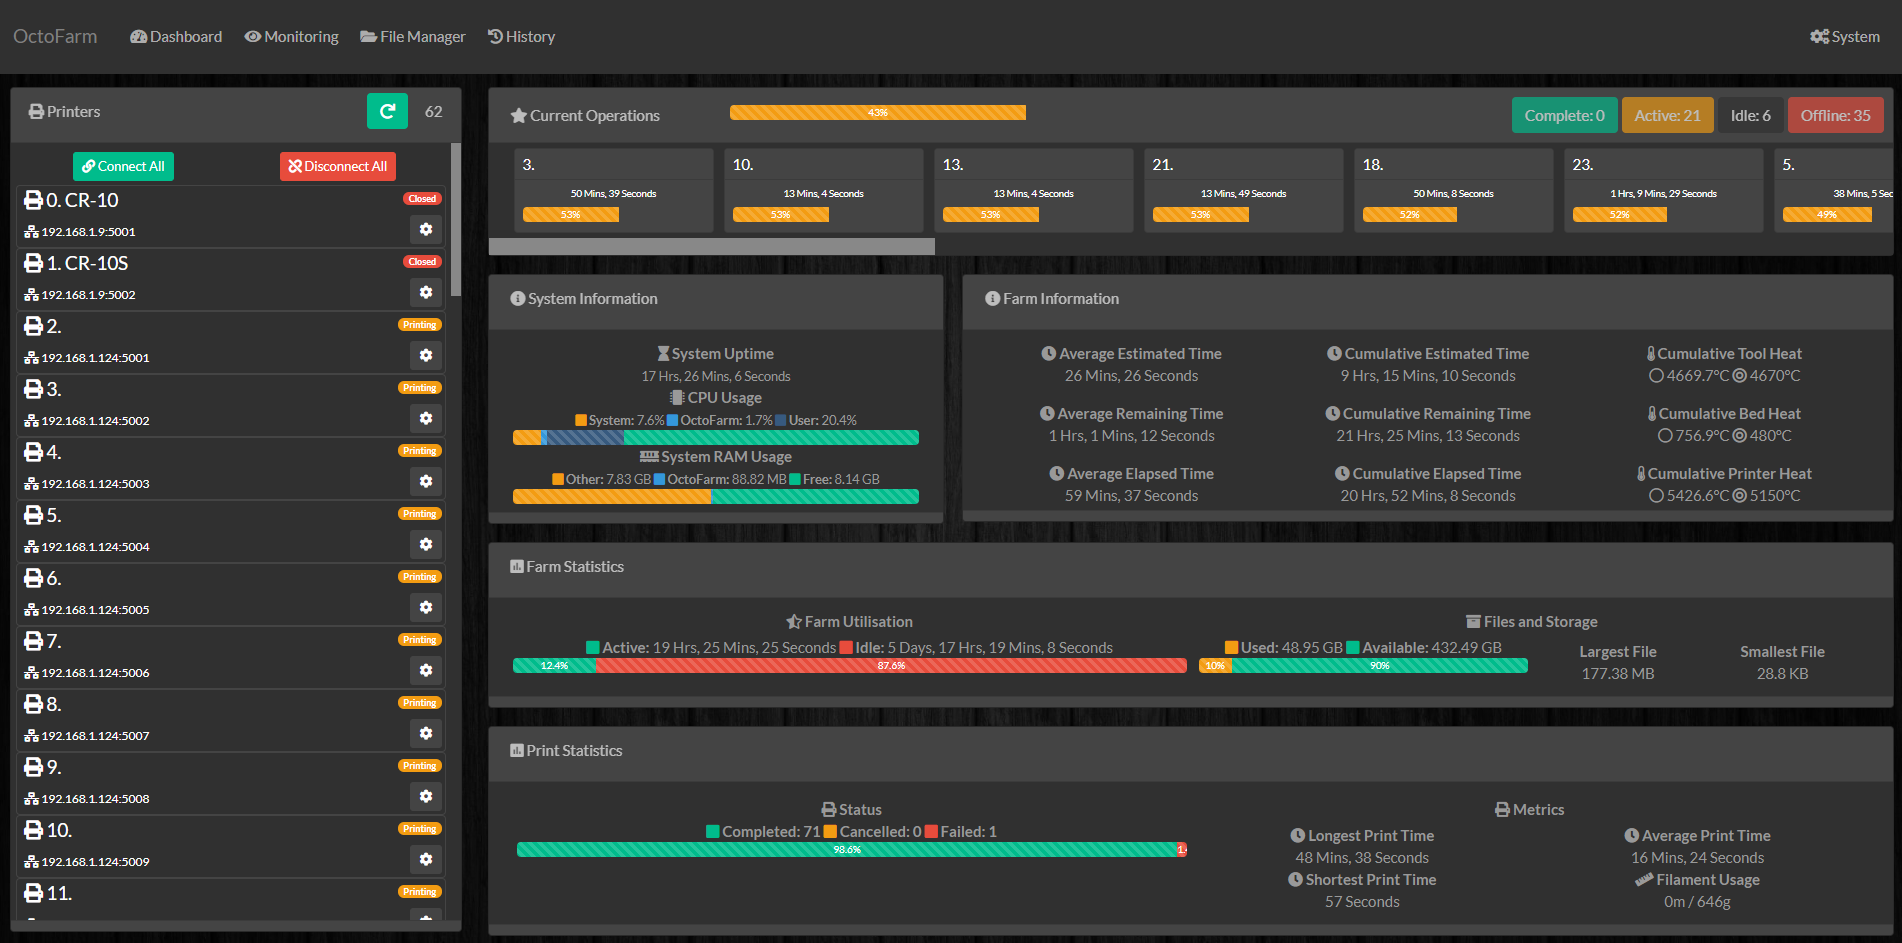
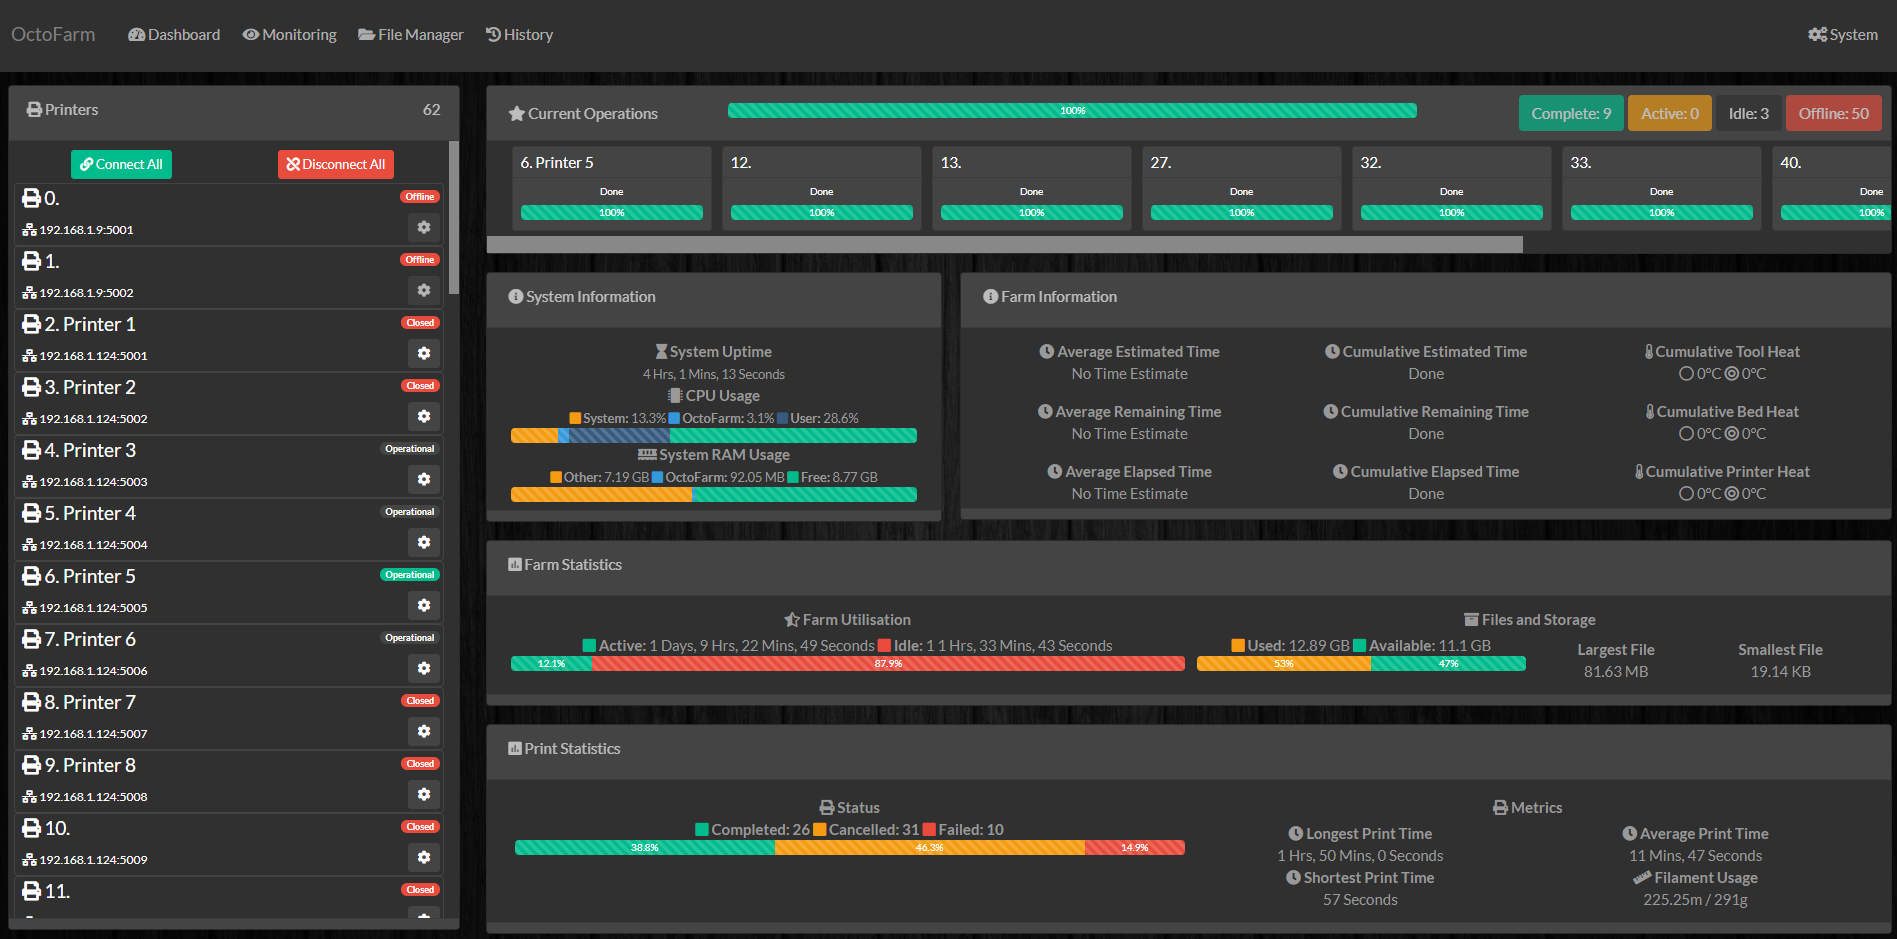
screenshots and doc update

diff --git a/docs/index.html b/docs/index.html
@@ -147,10 +147,9 @@
           <div class="row">
             <!--Grid column-->
             <div class="col-lg-12 white-text text-center pt-5">
-              <h1 class="font-weight-bold zindex-fixed">OctoFarm Version 1.1 (Coming Soon!)</h1>
+              <h1 class="font-weight-bold zindex-fixed">OctoFarm Version 1.1.0 - BETA Released! </h1>
                 <h5 class="">Web server and client combo for managing and monitoring multiple Octoprint instances.</h5>
                 <small>Created and maintained by James Mackay from NotExpectedYet</small>
-                <p>Please visit <a href="https://git.notexpectedyet.com/NotExpectedYet/OctoFarm">NotExpectedYet's git</a> to find version 1.0 and before.</p>
             </div>
             <div class="col-lg-6 white-text text-center black-bg">
                 <!-- <center><img class="mt-2 zindex-modal-backdrop" width="100%" src="img/logo/logo.png"></center> -->

diff --git a/README.md b/README.md
@@ -6,7 +6,9 @@
 [![GitHub license](https://img.shields.io/github/license/NotExpectedYet/OctoFarm?style=for-the-badge)](https://github.com/NotExpectedYet/OctoFarm/blob/master/LICENSE.txt)
 
 <h3 align="center">Current Feature Requests</h3>
+
 [![Feature Requests](https://feathub.com/NotExpectedYet/OctoFarm?format=svg)](https://feathub.com/NotExpectedYet/OctoFarm)
+
   <p>Please visit <a href="https://git.notexpectedyet.com/NotExpectedYet/OctoFarm">to log a request.
 
   <h3 align="center">Version 1.1 - BETA</h3>
